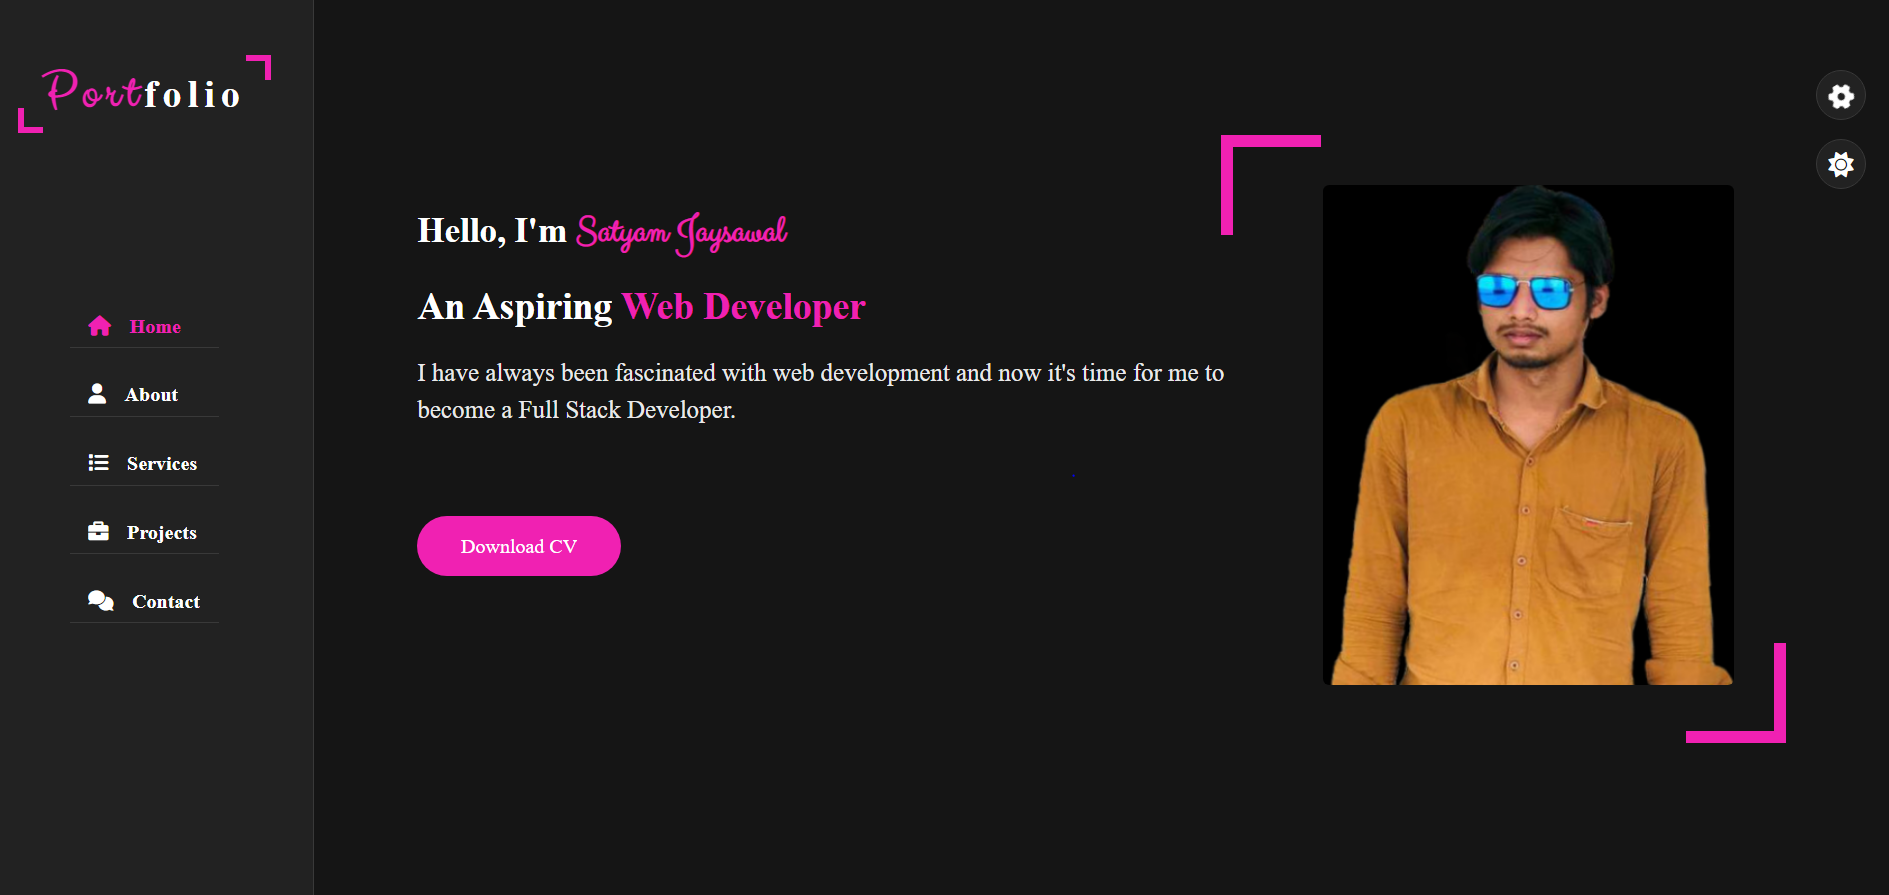
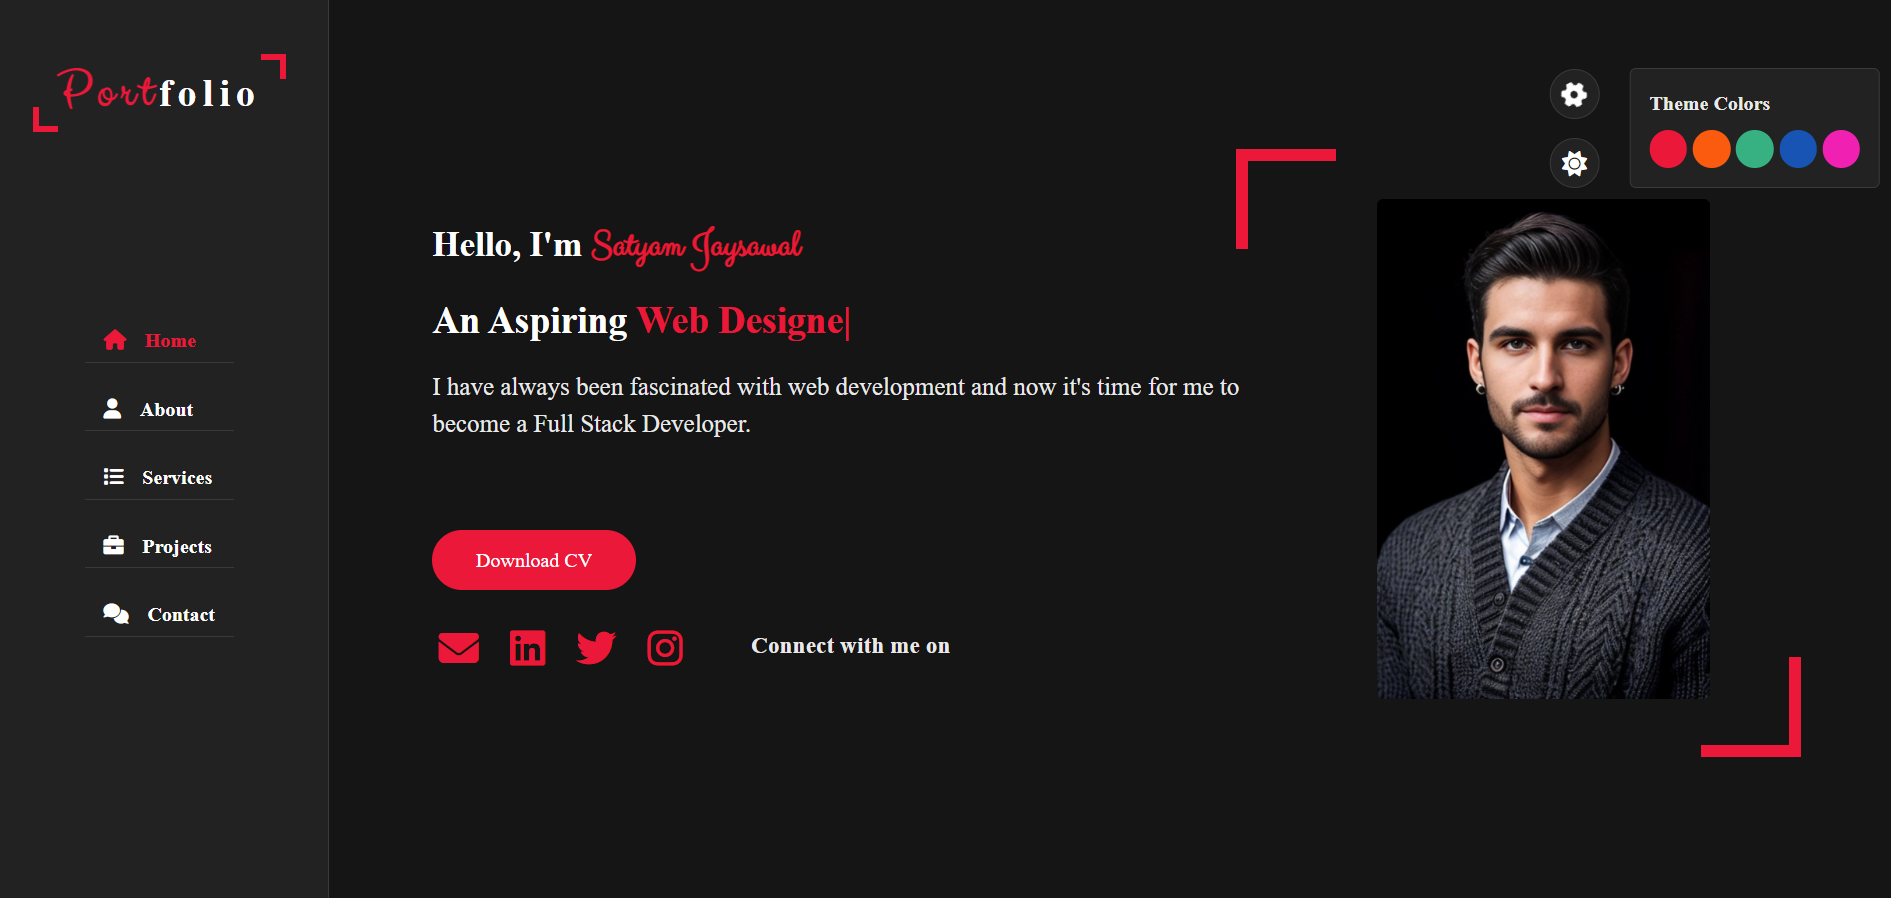
updated

diff --git a/index.html b/index.html
@@ -49,7 +49,7 @@
                             <h3 class="hello">Hello, I'm <span class="name">Satyam Jaysawal</span></h3>
                             <h3 class="my-profession">An Aspiring <span class="typing">web designer</span></h3>
                             <p>I have always been fascinated with web development and now it's time for me to become a Full Stack Developer.</p>
-                            <a href="#" class="btn">Download CV</a>
+                            <a href="https://drive.google.com/file/d/1zOwhDref1AxOsQ4AEp0s0YQvi6WxkXOC/view?usp=sharing" class="btn">Download CV</a>
                             <div class="connect-link">
                                 <ul class="list" >
                                     <li><a href="https://mail.google.com/"><i class="fa-solid fa-envelope fa-2x"></i></a></li>
@@ -63,7 +63,7 @@
                         
                         
                         <div class="home-img padd-15">
-                            <img src="image/Man2.PNG" alt="#">
+                            <img src="image/man4.jpg" alt="#">
                         </div>
                     </div>
                 </div>
